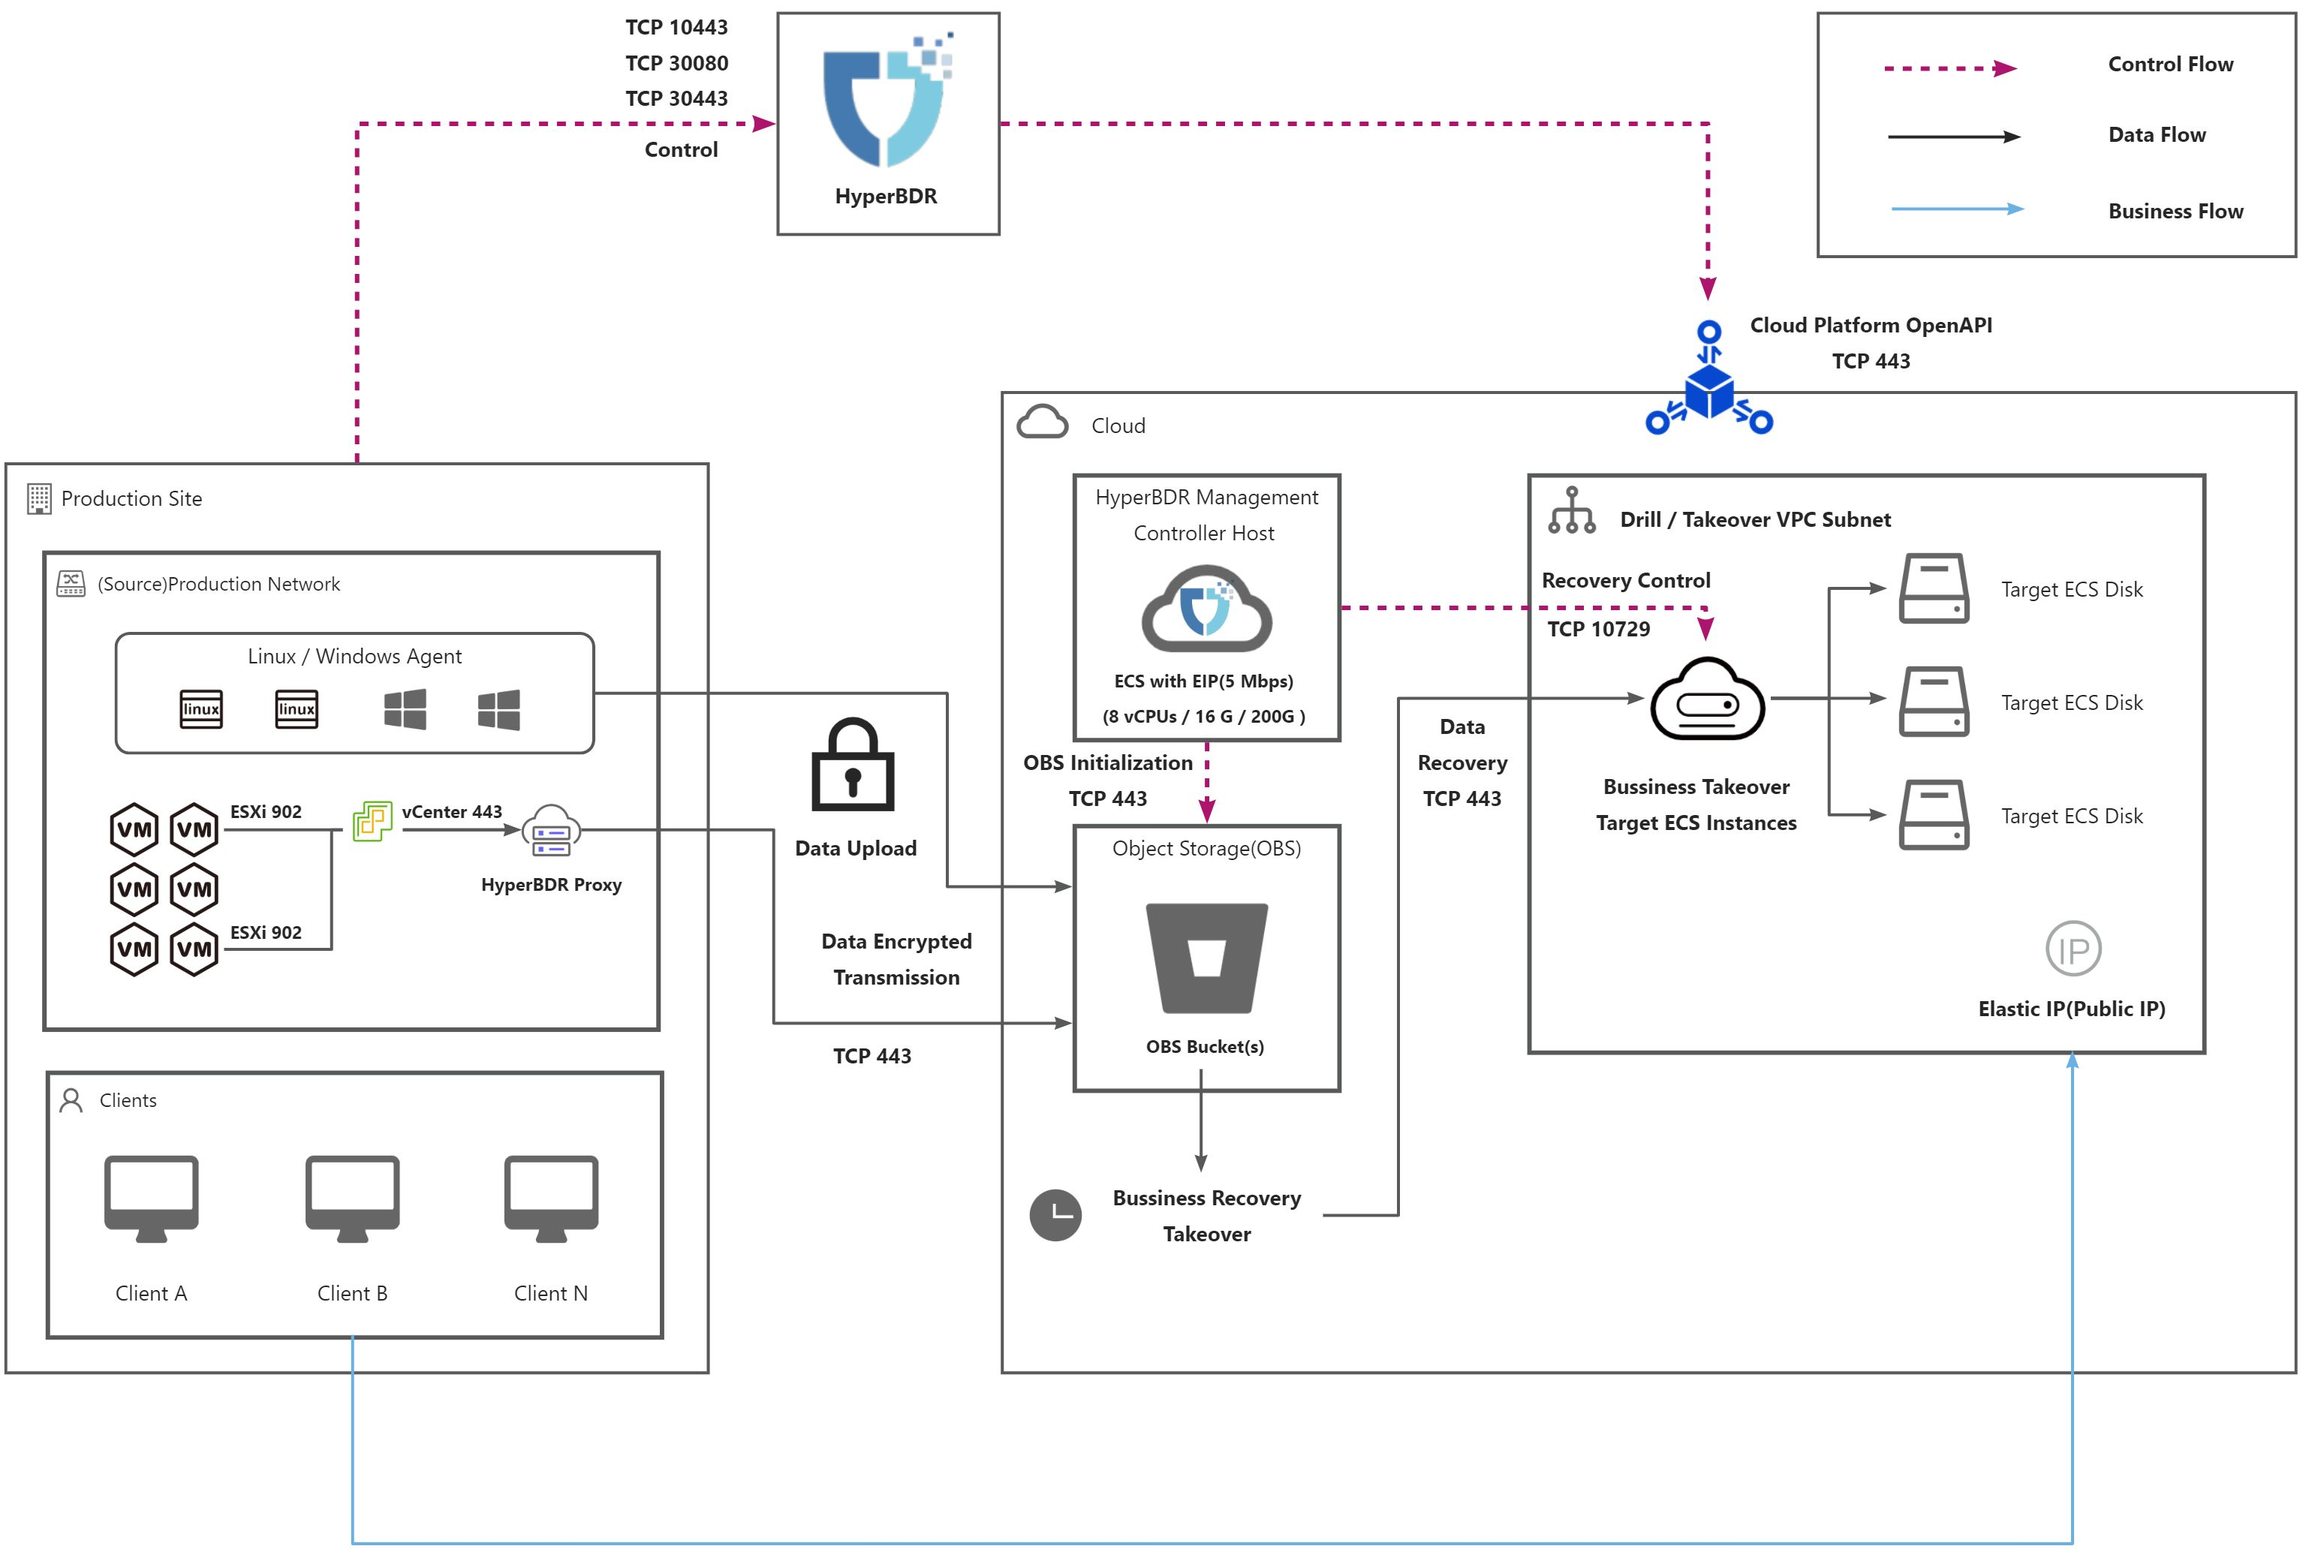
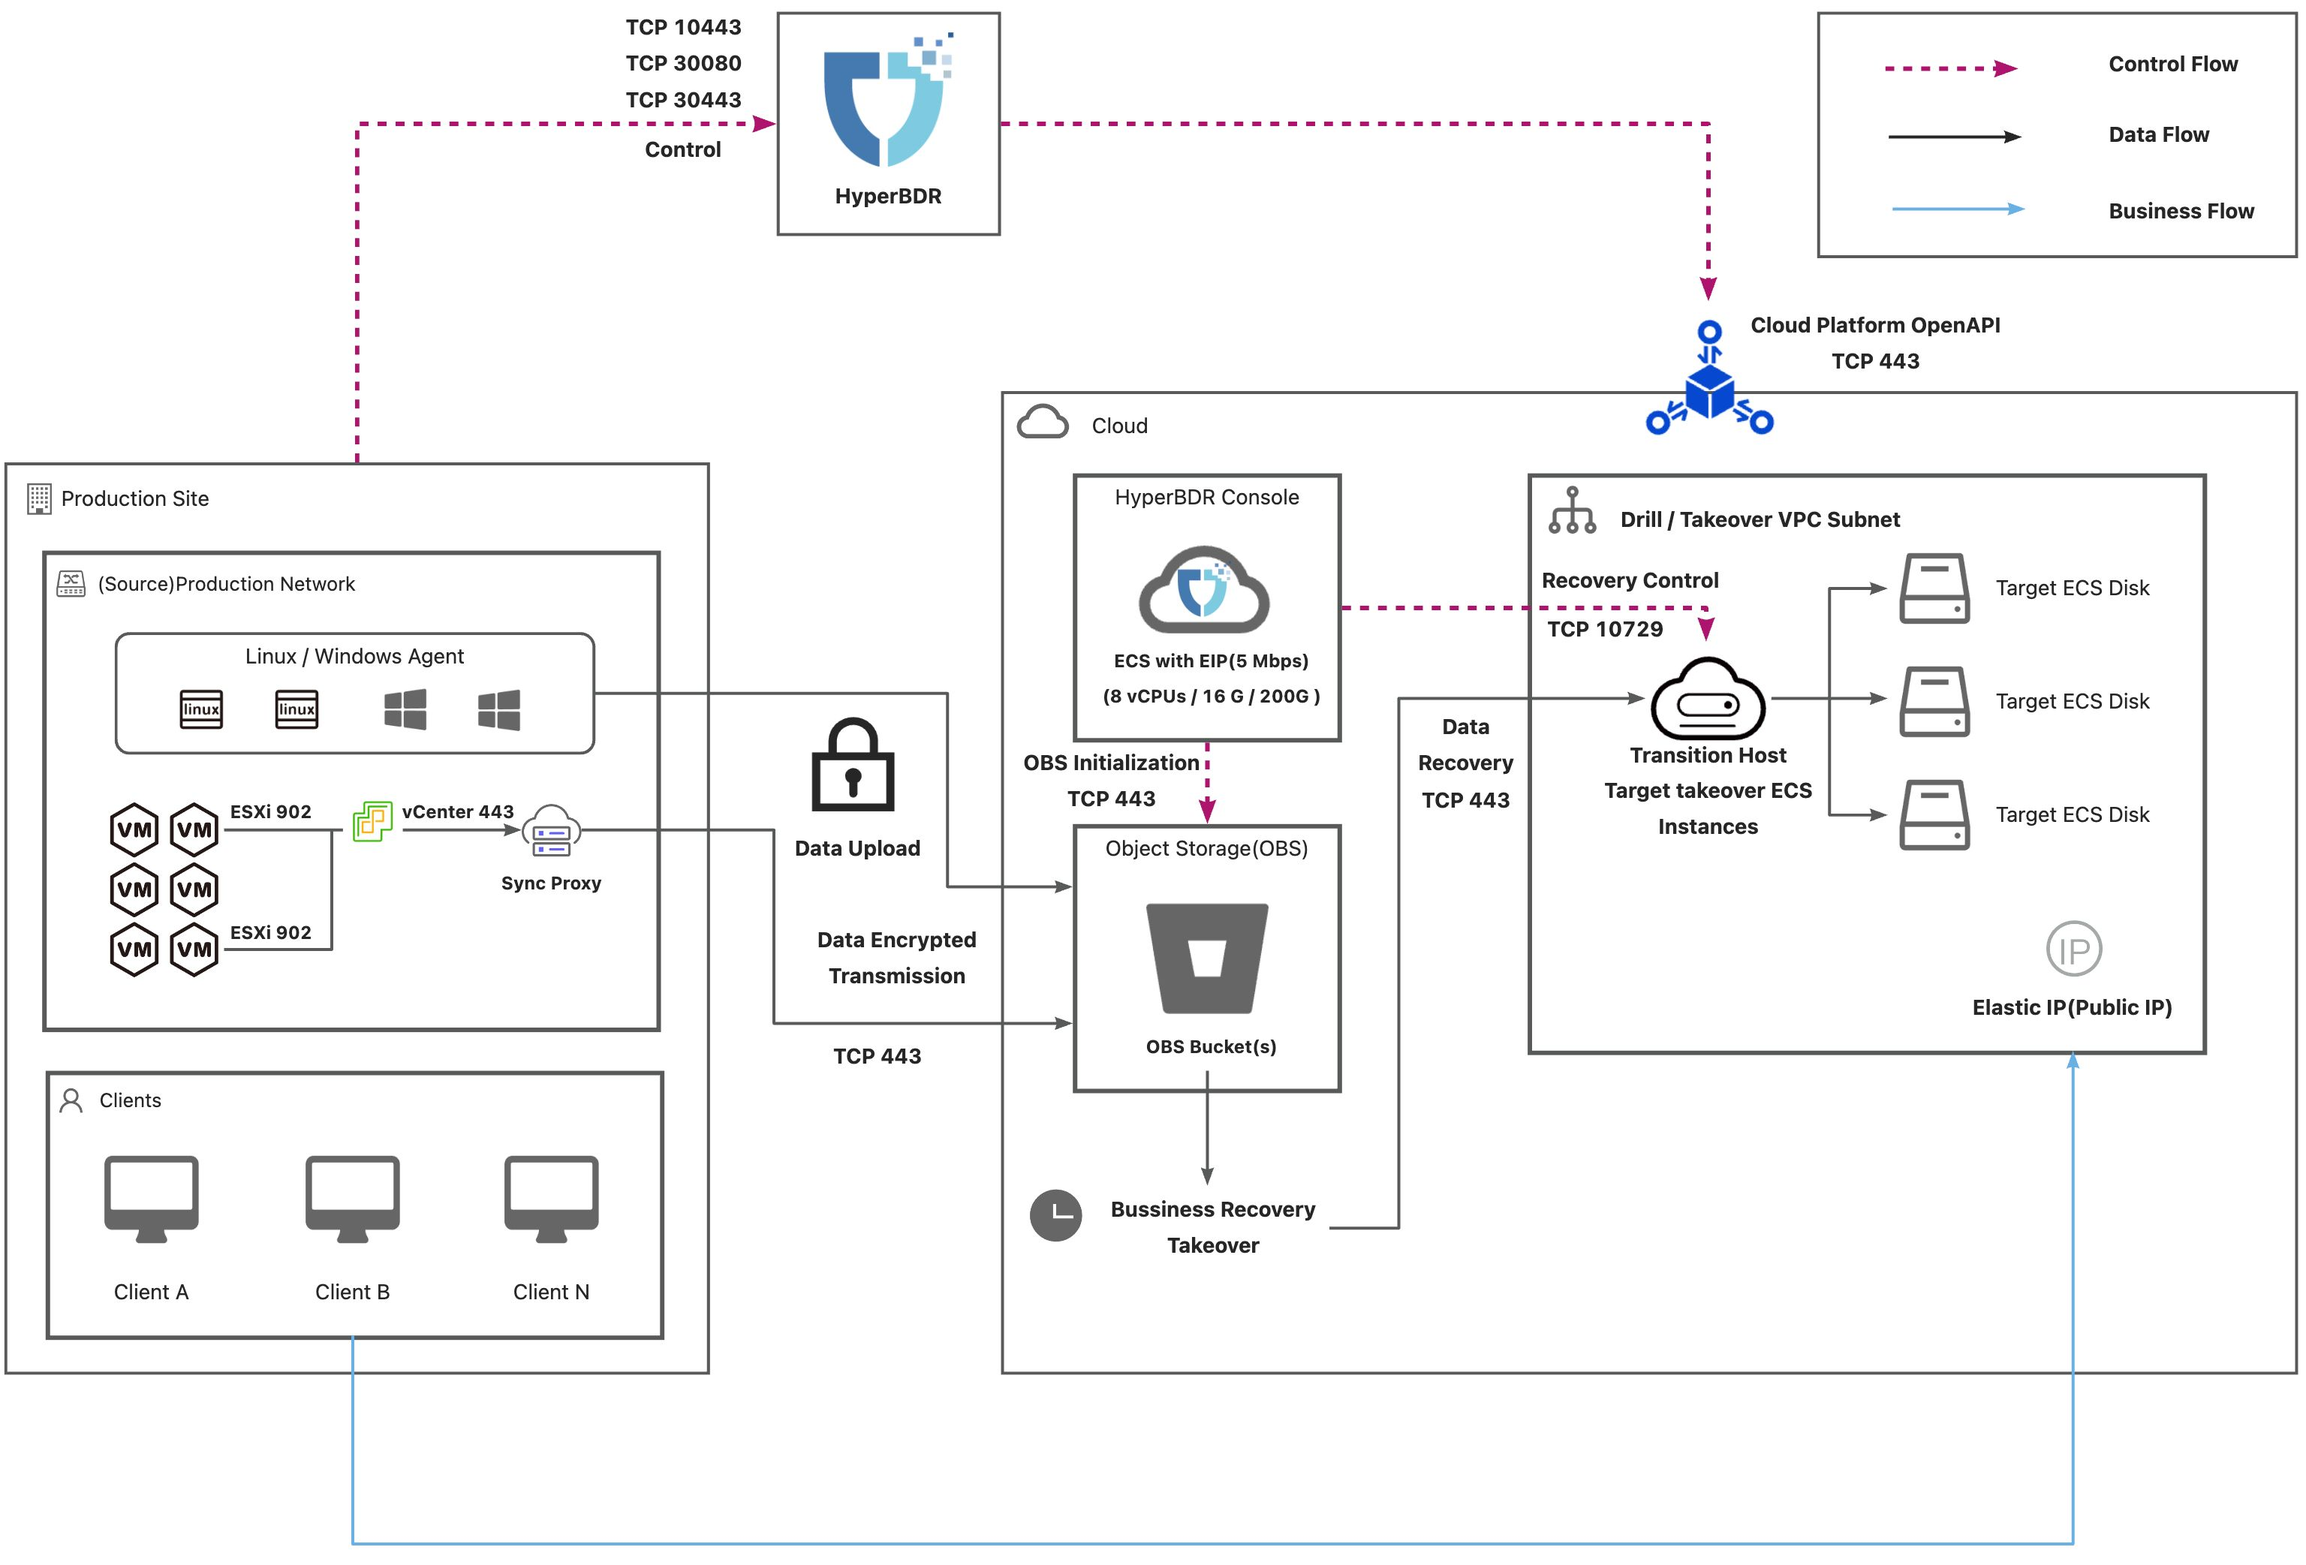
Modify the pre-sales documents picture and Product common term.

diff --git a/src/userguide/presales/dr-network-planning-recommendations.md b/src/userguide/presales/dr-network-planning-recommendations.md
@@ -35,25 +35,25 @@ Agent contains Windows Agent and Linux Agent.
 
 | **No.** | **From** | **To** | **Direction** | **Ports** | **Type** | **Comment** |
 | --- | --- | --- | --- | --- | --- | --- |
-| 1 | Agent | HyperBDR | TCP Unidirectional | 10443 / 30080 | Control Flow | 
+| 1 | Agent | HyperBDR Console | TCP Unidirectional | 10443 / 30080 | Control Flow | 
 | 2 | Agent | Object Storage Service | TCP Unidirectional | 443 | Data Flow | 
-| 3 | HyperBDR | Object Storage Service | TCP Unidirectional | 443 | Control Flow | 
-| 4 | HyperBDR | Drill/Takeover VM | TCP Unidirectional | 10729 | Control Flow | It is necessary to establish VPC Peering between HyperBDR and the VPC hosting the recovered VM. Port configurations will be automatically set up by the security group, and no specific settings are required. |
-| 5 | HyperBDR | Cloud API | TCP Unidirectional | 443 | Control Flow | 
-| 6 | Drill/Takeover VM | Object Storage Service | TCP Unidirectional | 443 | Data Flow | 
+| 3 | HyperBDR Console | Object Storage Service | TCP Unidirectional | 443 | Control Flow | 
+| 4 | HyperBDR Console | Transition Host | TCP Unidirectional | 10729 | Control Flow | It is necessary to establish VPC Peering between HyperBDR Console and the VPC hosting the recovered VM. Port configurations will be automatically set up by the security group, and no specific settings are required. |
+| 5 | HyperBDR Console | Cloud API | TCP Unidirectional | 443 | Control Flow | 
+| 6 | Transition Host | Object Storage Service | TCP Unidirectional | 443 | Data Flow | 
 
 #### VMware Agentless
 
 | **No.** | **From** | **To** | **Direction** | **Ports** | **Type** | **Comment** |
 | --- | --- | --- | --- | --- | --- | --- |
-| 1 | HyperBDR Proxy | vCenter | TCP Unidirectional | 443 | Control Flow |  |
-| 2 | HyperBDR Proxy | ESXi | TCP Unidirectional | 902 | Data Flow | Port 902 for all ESXis managed by vCenter |
-| 3 | HyperBDR Proxy | HyperBDR | TCP Unidirectional | 10443 / 30080 | Control Flow |  |
-| 4 | HyperBDR Proxy | Object Storage Service | TCP Unidirectional | 443 | Data Flow |  |
-| 5 | HyperBDR | Object Storage Service | TCP Unidirectional | 443 | Control Flow |  |
-| 6 | HyperBDR | Drill/Takeover VM | TCP Unidirectional | 10729 | Control Flow | It is necessary to establish VPC Peering between HyperBDR and the VPC hosting the recovered VM. Port configurations will be automatically set up by the security group, and no specific settings are required. |
-| 7 | HyperBDR | Cloud API | TCP Unidirectional | 443 | Control Flow |  |
-| 8 | Drill/Takeover VM | Object Storage Service | TCP Unidirectional | 443 | Data Flow |  |
+| 1 | Sync Proxy | vCenter | TCP Unidirectional | 443 | Control Flow |  |
+| 2 | Sync Proxy | ESXi | TCP Unidirectional | 902 | Data Flow | Port 902 for all ESXis managed by vCenter |
+| 3 | Sync Proxy | HyperBDR Console | TCP Unidirectional | 10443 / 30080 | Control Flow |  |
+| 4 | Sync Proxy | Object Storage Service | TCP Unidirectional | 443 | Data Flow |  |
+| 5 | HyperBDR Console | Object Storage Service | TCP Unidirectional | 443 | Control Flow |  |
+| 6 | HyperBDR Console | Transition Host | TCP Unidirectional | 10729 | Control Flow | It is necessary to establish VPC Peering between HyperBDR Console and the VPC hosting the recovered VM. Port configurations will be automatically set up by the security group, and no specific settings are required. |
+| 7 | HyperBDR Console | Cloud API | TCP Unidirectional | 443 | Control Flow |  |
+| 8 | Transition Host | Object Storage Service | TCP Unidirectional | 443 | Data Flow |  |
 
 
 ### Deployment Architecture
@@ -88,22 +88,21 @@ Agent contains Windows Agent and Linux Agent.
 
 | **No.** | **From** | **To** | **Direction** | **Ports** | **Type** | **Comment** |
 | --- | --- | --- | --- | --- | --- | --- |
-| 1 | Agent | HyperBDR | TCP Unidirectional | 10443 / 30080 | Control Flow | 
-| 2 | Agent | HyperBDR Cloud Proxy | TCP Unidirectional | 3260 | Data Flow | 
-| 3 | HyperBDR | HyperBDR Cloud Proxy | TCP Unidirectional | 22 / 10729 | Control Flow | It is necessary to establish VPC Peering between HyperBDR and the VPC hosting the recovered VM. Port configurations will be automatically set up by the security group, and no specific settings are required. |
-| 4 | HyperBDR | Cloud API | TCP Unidirectional | 443 | Control Flow | 
+| 1 | Agent | HyperBDR Console | TCP Unidirectional | 10443 / 30080 | Control Flow | 
+| 2 | Agent | Cloud Sync Gateway | TCP Unidirectional | 3260 | Data Flow | 
+| 3 | HyperBDR Console | Cloud Sync Gateway | TCP Unidirectional | 22 / 10729 | Control Flow | It is necessary to establish VPC Peering between HyperBDR Console and the VPC hosting the recovered VM. Port configurations will be automatically set up by the security group, and no specific settings are required. |
+| 4 | HyperBDR Console | Cloud API | TCP Unidirectional | 443 | Control Flow | 
 
 #### Agentless
 
 | **No.** | **From** | **To** | **Direction** | **Ports** | **Type** | **Comment** |
 | --- | --- | --- | --- | --- | --- | --- |
-| 1 | HyperBDR Proxy | vCenter | TCP Unidirectional | 443 | Control Flow |  |
-| 2 | HyperBDR Proxy | ESXi | TCP Unidirectional | 902 | Data Flow | Port 902 for all ESXis managed by vCenter |
-| 3 | HyperBDR Proxy | HyperBDR | TCP Unidirectional | 10443 / 30080 | Control Flow |  |
-| 4 | HyperBDR Proxy | HyperBDR Cloud Proxy | TCP Unidirectional | 3260 | Data Flow |  |
-| 5 | HyperBDR | HyperBDR Cloud Proxy | TCP Unidirectional | 22 / 10729 | Control Flow | It is necessary to establish VPC Peering between HyperBDR and the VPC hosting the recovered VM. Port configurations will be automatically set up by the security group, and no specific settings are required. |
-| 6 | HyperBDR | Cloud API | TCP Unidirectional | 443 | Control Flow | 
-
+| 1 | Sync Proxy | vCenter | TCP Unidirectional | 443 | Control Flow |  |
+| 2 | Sync Proxy | ESXi | TCP Unidirectional | 902 | Data Flow | Port 902 for all ESXis managed by vCenter |
+| 3 | Sync Proxy | HyperBDR Console | TCP Unidirectional | 10443 / 30080 | Control Flow |  |
+| 4 | Sync Proxy | Cloud Sync Gateway | TCP Unidirectional | 3260 | Data Flow |  |
+| 5 | HyperBDR Console | Cloud Sync Gateway | TCP Unidirectional | 22 / 10729 | Control Flow | It is necessary to establish VPC Peering between HyperBDR Console and the VPC hosting the recovered VM. Port configurations will be automatically set up by the security group, and no specific settings are required. |
+| 6 | HyperBDR Console | Cloud API | TCP Unidirectional | 443 | Control Flow | 
 
 ### Deployment Architecture
 
@@ -114,7 +113,6 @@ Agent contains Windows Agent and Linux Agent.
 #### Dedicated Network Connection
 
 ![dr-network-planning-recommendations-5.jpeg](./images/dr-network-planning-recommendations-5.jpeg)
-
 
 ## Failover Network Planning — Dedicated Line Solution
 
@@ -130,9 +128,9 @@ During the failover process, due to the necessity for cloud takeover of the host
 
 | **No.** | **From** | **To** | **Direction** | **Ports** | **Type** | **Comment** |
 | --- | --- | --- | --- | --- | --- | --- |
-| 1 | Drill/Takeover VM(Agent) | HyperBDR | TCP Unidirectional | 10443 / 30080 | Control Flow | 
-| 2 | Drill/Takeover(Agent) | Failback Gateway VM | TCP Unidirectional | 3260 | Data Flow | 
-| 3 | HyperBDR | Failback Gateway VM | TCP Unidirectional | 10729 | Control Flow | 
+| 1 | Failback Agent | HyperBDR Console | TCP Unidirectional | 10443 / 30080 | Control Flow | 
+| 2 | Failback Agent | Failback Transition Host | TCP Unidirectional | 3260 | Data Flow | 
+| 3 | HyperBDR Console | Failback Transition Host | TCP Unidirectional | 10729 | Control Flow | 
 
 ### Object Storage
 
@@ -144,13 +142,13 @@ During the failover process, due to the necessity for cloud takeover of the host
 
 | **No.** | **From** | **To** | **Direction** | **Ports** | **Type** | **Comment** |
 | --- | --- | --- | --- | --- | --- | --- |
-| 1 | Drill/Takeover VM(Agent) | HyperBDR | TCP Unidirectional | 10443 / 30080 | Control Flow | 
-| 2 | Drill/Takeover VM(Agent) | Object Storage Service | TCP Unidirectional | 443 | Data Flow | 
-| 3 | HyperBDR | Object Storage Service | TCP Unidirectional | 443 | Control Flow | 
-| 4 | HyperBDR | Failback Gateway VM | TCP Unidirectional | 10729 | Control Flow | 
-| 5 | HyperBDR | Cloud API | TCP Unidirectional | 443 | Control Flow | 
-| 6 | HyperBDR | vCenter/ESXi | TCP Unidirectional | 443/902 | Control Flow | 
-| 7 | Failback Gateway VM | Object Storage Service | TCP Unidirectional | 443 | Data Flow | 
+| 1 | Failback Agent | HyperBDR Console | TCP Unidirectional | 10443 / 30080 | Control Flow | 
+| 2 | Failback Agent | Object Storage Service | TCP Unidirectional | 443 | Data Flow | 
+| 3 | HyperBDR Console | Object Storage Service | TCP Unidirectional | 443 | Control Flow | 
+| 4 | HyperBDR Console | Failback Transition Host | TCP Unidirectional | 10729 | Control Flow | 
+| 5 | HyperBDR Console | Cloud API | TCP Unidirectional | 443 | Control Flow | 
+| 6 | HyperBDR Console | vCenter/ESXi | TCP Unidirectional | 443/902 | Control Flow | 
+| 7 | Failback Transition Host | Object Storage Service | TCP Unidirectional | 443 | Data Flow | 
 
 
 ## DR Network Planning
